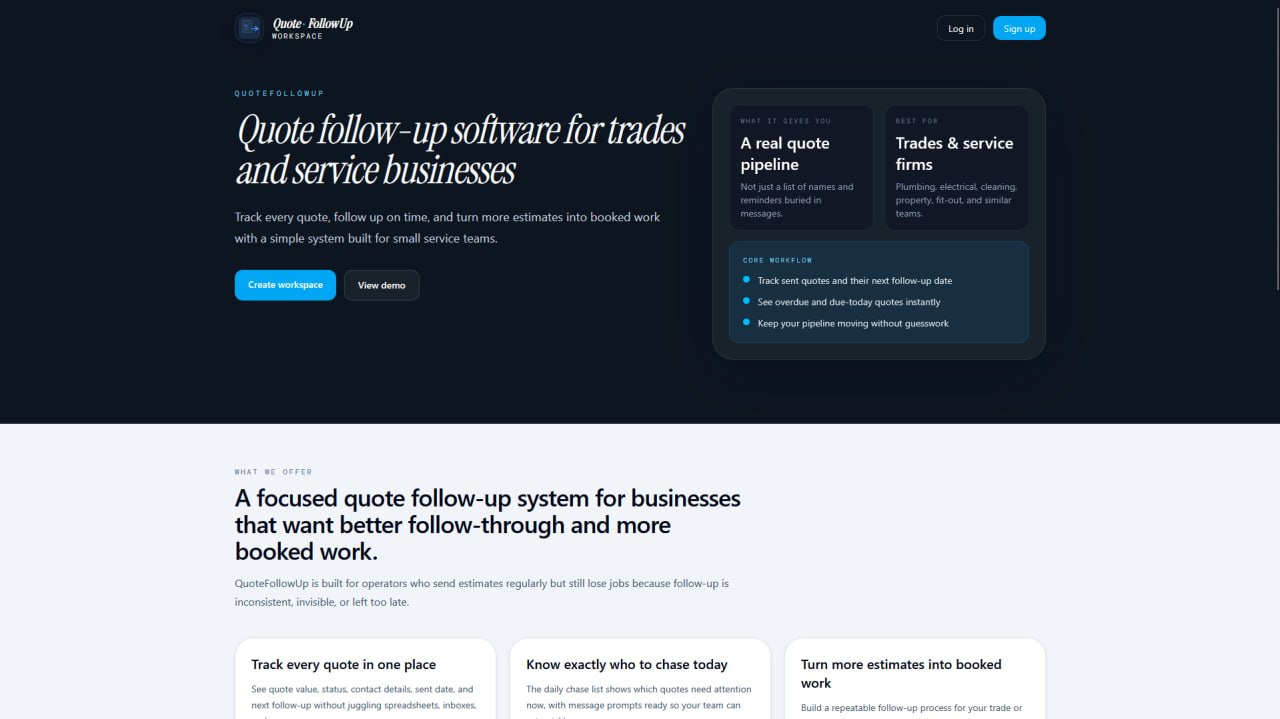
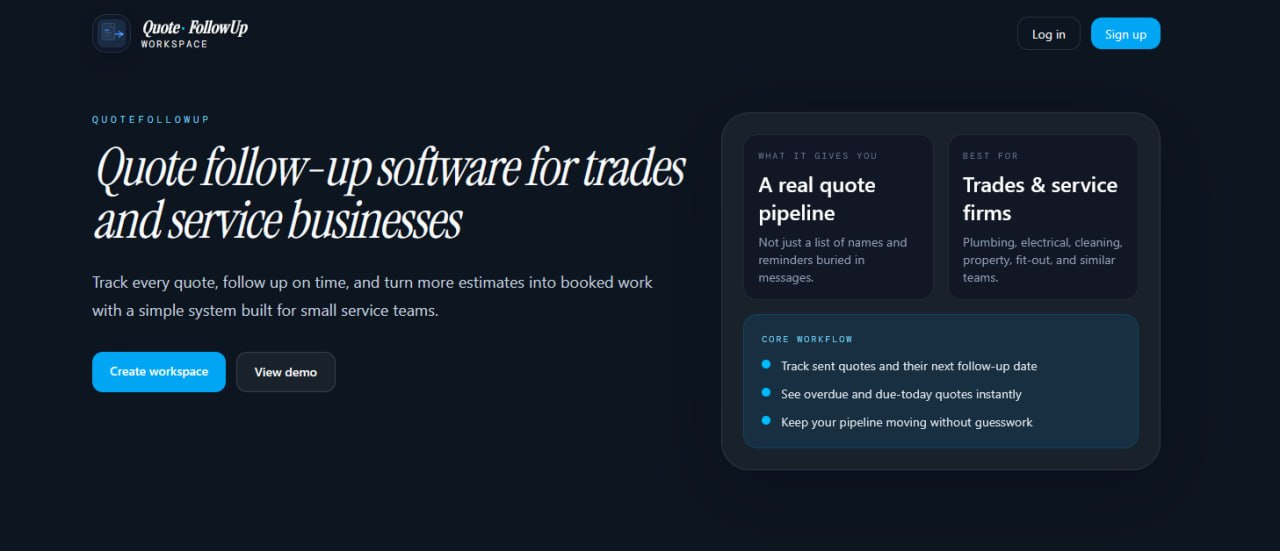
Update social preview image

diff --git a/src/app/layout.tsx b/src/app/layout.tsx
@@ -28,7 +28,7 @@ export const metadata: Metadata = {
       {
         url: '/og-homepage.jpg',
         width: 1280,
-        height: 719,
+        height: 551,
         alt: 'QuoteFollowUp homepage preview',
       },
     ],
